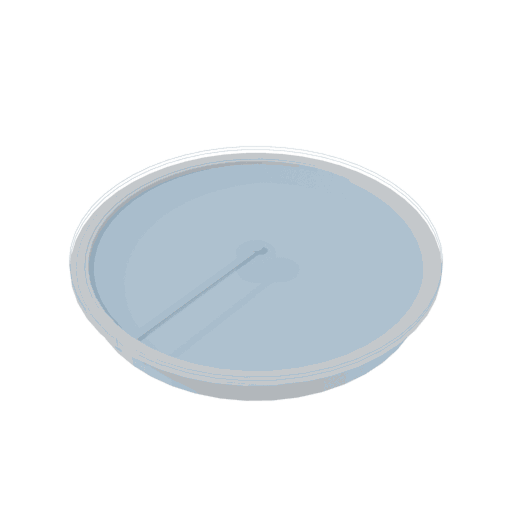
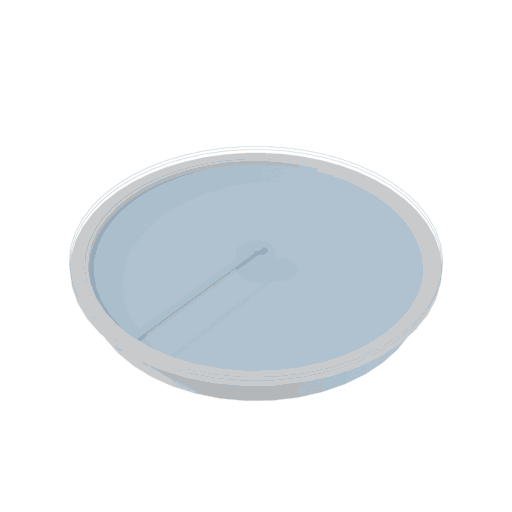
批3 首族视觉验收迭代笔(用户呈裁①不通过三批注入——混凝土调灰/绿草地/堆叠治理复验): a)混凝土族调中性灰——semanticColors 真源 pool_wall #8d99a6→#a3a9ad(蓝偏置 R/B +25→+10)+partition #7a8694→#8f9599 同族随调; 冻结测 semanticColors.test.ts 字面清单同步(键集冻结锚纪律——改值必同步); Blender materials.py PALETTE 镜像同步+全管线重建(glTF 材质/缩略图 PNG 资产再生成, check_templates 复验全绿). b)主视图环境换绿草地—

diff --git a/webapp/src/features/viewer3d/components/Scene.tsx b/webapp/src/features/viewer3d/components/Scene.tsx
@@ -97,9 +97,11 @@ const CAMERA_PRESETS = {
 
 /** C2-3d V1 地面/雾色（场景底=--wp-bg-page 同值 #0b1526——页面边融一致；
  * 网格两色=主格/次格分层——工程参考系 GPS-X 惯例）。 */
-const SCENE_BG = "#0b1526";
-const GRID_MAJOR = "#3d619c";
-const GRID_MINOR = "#1b2c49";
+// 批3 首族视觉验收迭代（2026-09-12 用户批注 b）：环境换绿草地——
+// 底色/雾=暗绿（页面 antd 深蓝主题不动，画布=绿世界视口）+网格绿系
+const SCENE_BG = "#0e2415";
+const GRID_MAJOR = "#4a7a5c";
+const GRID_MINOR = "#1f3a28";
 
 /** 画布高度：视口减页头/页签/内边距铬件（L5R 探针 B2 修复——R3F Canvas
  *  无内在尺寸，父链 auto 高度下塌缩 150px；SVG viewBox 自适应族不同）。 */
@@ -416,7 +418,7 @@ export function Scene({
               receiveShadow
             >
               <planeGeometry args={[ground.size, ground.size]} />
-              <meshStandardMaterial color="#0d1a30" />
+              <meshStandardMaterial color="#2e5239" />
             </mesh>
             <gridHelper
               args={[ground.size, ground.majorDivisions, GRID_MAJOR, GRID_MAJOR]}

diff --git a/webapp/src/shared/ui/semanticColors.test.ts b/webapp/src/shared/ui/semanticColors.test.ts
@@ -42,8 +42,8 @@ describe("semanticColors 语义色真源表", () => {
   });
 
   it("逐键值冻结：字面 hex 原值迁移（像素零漂移）", () => {
-    expect(SEMANTIC_COLORS.pool_wall).toBe("#8d99a6");
-    expect(SEMANTIC_COLORS.partition).toBe("#7a8694");
+    expect(SEMANTIC_COLORS.pool_wall).toBe("#a3a9ad"); // 批3 首族视觉验收迭代调灰
+    expect(SEMANTIC_COLORS.partition).toBe("#8f9599");
     expect(SEMANTIC_COLORS.channel).toBe("#7f8a93");
     expect(SEMANTIC_COLORS.ground).toBe("#cfd6dc");
     expect(SEMANTIC_COLORS.water_surface).toBe("#2f7fd1");

diff --git a/webapp/src/shared/ui/semanticColors.ts b/webapp/src/shared/ui/semanticColors.ts
@@ -17,9 +17,10 @@
  */
 /** 语义色表（token→色值唯一映射处——全 webapp 渲染/2D 描绘统一消费）。 */
 export const SEMANTIC_COLORS = {
-  // 3D 图元色族（自 PoolBox 迁移，12 键）
-  pool_wall: "#8d99a6",
-  partition: "#7a8694",
+  // 3D 图元色族（自 PoolBox 迁移，12 键；批3 首族视觉验收迭代[2026-09-12
+  // 用户批注 a]：混凝土族调中性灰——pool_wall 蓝偏置 +25→+10）
+  pool_wall: "#a3a9ad",
+  partition: "#8f9599",
   channel: "#7f8a93",
   ground: "#cfd6dc",
   water_surface: "#2f7fd1", // 蓝水线

diff --git a/webapp/src/features/viewer3d/components/ThumbnailStage.tsx b/webapp/src/features/viewer3d/components/ThumbnailStage.tsx
@@ -49,7 +49,7 @@ import { WaterSurface } from "./WaterSurface";
 /** C2-3d 冻结口径（Scene.tsx 同值双源——V2 光比/V1 底色；C2-visual T4
  * 亮度微调：0.4/1.4→0.55/1.6[紫外消毒暗构型提升]——与 Scene.tsx 主视图
  * 光比自此分源[缩略图小图面独立裁量]，非联动面）。 */
-const SCENE_BG = "#0b1526";
+const SCENE_BG = "#0e2415"; // 批3 首族迭代：绿世界底色（Scene.tsx 同值双源）
 const AMBIENT_INTENSITY = 0.55;
 const DIRECTIONAL_INTENSITY = 1.6;
 

diff --git a/tools/blender/lib/materials.py b/tools/blender/lib/materials.py
@@ -15,7 +15,8 @@ import bpy  # noqa: F401 —— Blender 内嵌运行（-b -P）
 
 # 与 shared/ui/semanticColors.ts 同值镜像（改色须双端同窗——R-G3 族）
 PALETTE = {
-    "pool_wall": (0x8D / 255, 0x99 / 255, 0xA6 / 255, 1.0),  # 灰白混凝土
+    # 批3 首族视觉验收迭代（2026-09-12 用户批注 a）：混凝土调中性灰
+    "pool_wall": (0xA3 / 255, 0xA9 / 255, 0xAD / 255, 1.0),  # 灰白混凝土
     "steel": (0x5B / 255, 0x8D / 255, 0xB8 / 255, 1.0),  # 钢构（pipe 同值）
     "water_surface": (0x2F / 255, 0x7F / 255, 0xD1 / 255, 1.0),  # 蓝水体（PNG 专用层）
 }
